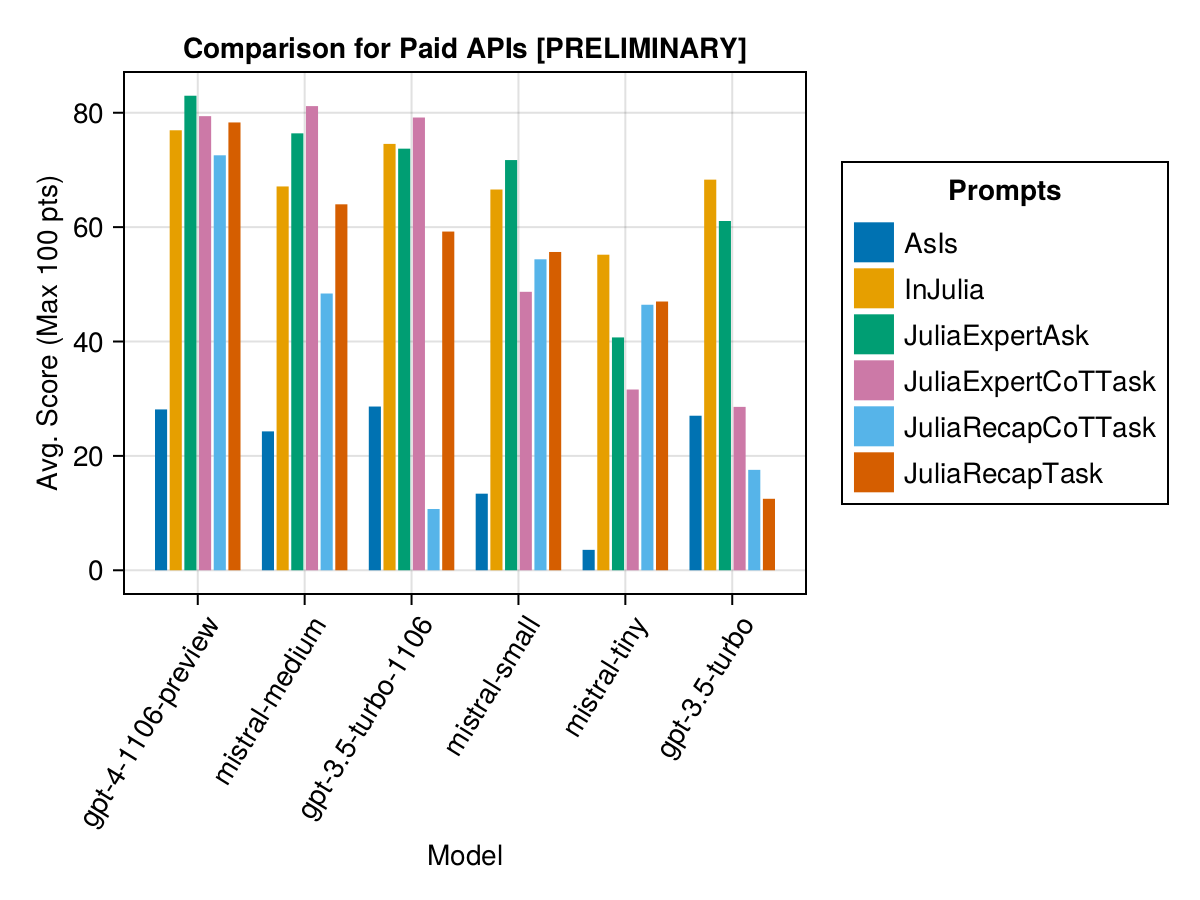
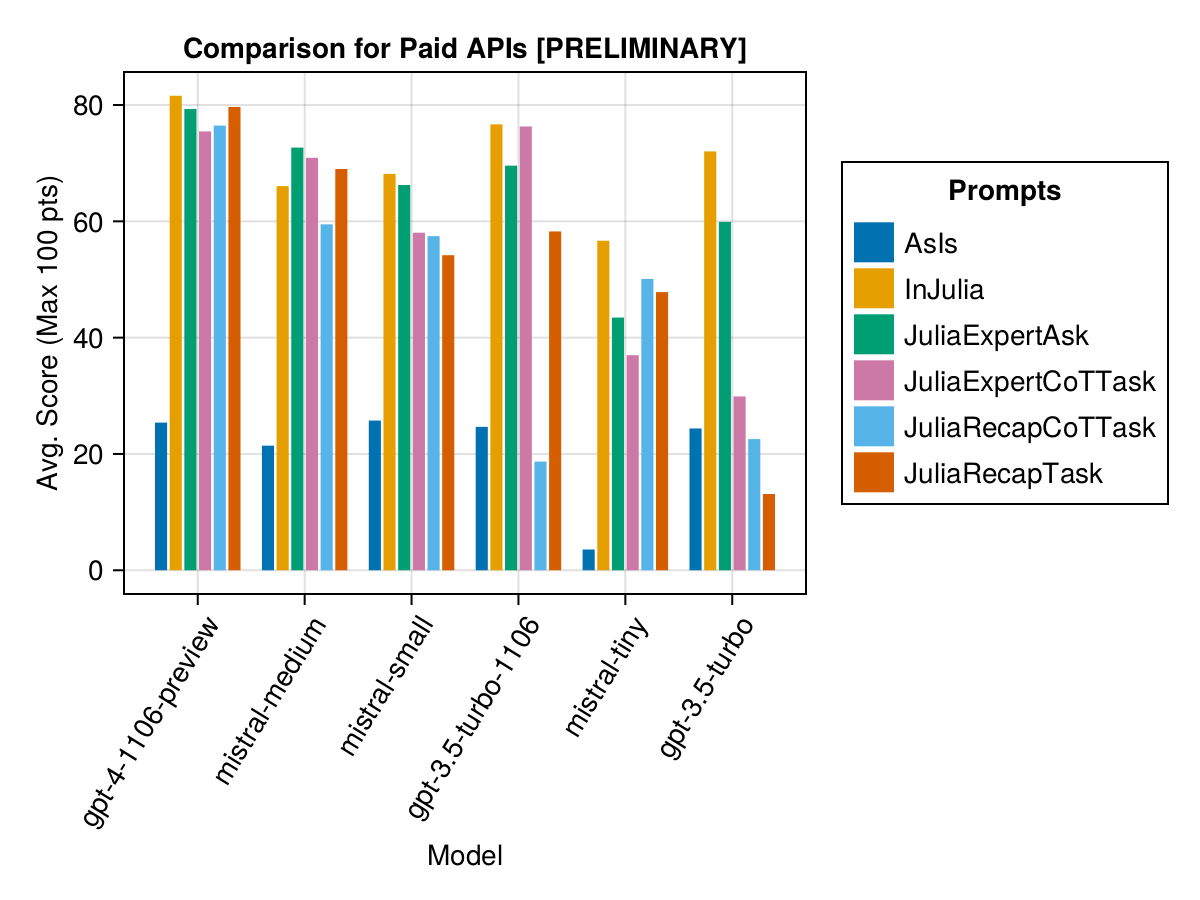
update docs

diff --git a/README.md b/README.md
@@ -1,5 +1,9 @@
 # Julia LLM Leaderboard
 
+[![Stable](https://img.shields.io/badge/docs-stable-blue.svg)](https://svilupp.github.io/JuliaLLMLeaderboard.jl/stable/)
+[![Dev](https://img.shields.io/badge/docs-dev-blue.svg)](https://svilupp.github.io/JuliaLLMLeaderboard.jl/dev/)
+[![SciML Code Style](https://img.shields.io/static/v1?label=code%20style&message=SciML&color=9558b2&labelColor=389826)](https://github.com/SciML/SciMLStyle)
+
 Comparison of Julia language generation capabilities of various Large Language Models
 
 > [!WARNING]  
@@ -56,12 +60,12 @@ Across the board, GPT-4 tends to be among the best-performing models. However, "
 
 | model              | AsIs | InJulia | JuliaExpertAsk | JuliaExpertCoTTask | JuliaRecapCoTTask | JuliaRecapTask | AverageScore |
 |--------------------|------|---------|----------------|--------------------|-------------------|----------------|--------------|
-| gpt-4-1106-preview | 20.6 |    85.0 |           76.5 |               74.7 |              80.1 |           79.6 |         69.4 |
-| gpt-3.5-turbo-1106 | 23.6 |    75.3 |           77.4 |               80.2 |              32.9 |           72.0 |         60.2 |
-|     mistral-medium | 18.9 |    63.0 |           73.3 |               66.6 |              62.9 |           67.9 |         58.8 |
-|      mistral-small | 36.3 |    71.2 |           66.2 |               64.8 |              62.6 |           46.2 |         57.9 |
-|       mistral-tiny |  1.8 |    55.0 |           43.2 |               41.1 |              57.0 |           46.1 |         40.7 |
-|      gpt-3.5-turbo | 20.0 |    67.7 |           53.9 |               22.9 |              27.7 |           14.0 |         34.4 |
+| gpt-4-1106-preview | 25.4 |    81.6 |           79.3 |               75.5 |              76.5 |           79.7 |         69.6 |
+|     mistral-medium | 21.4 |    66.1 |           72.7 |               70.9 |              59.5 |           69.0 |         59.9 |
+|      mistral-small | 25.7 |    68.2 |           66.2 |               58.0 |              57.5 |           54.2 |         55.0 |
+| gpt-3.5-turbo-1106 | 24.7 |    76.7 |           69.6 |               76.3 |              18.7 |           58.3 |         54.0 |
+|       mistral-tiny |  3.6 |    56.7 |           43.5 |               37.0 |              50.1 |           47.8 |         39.8 |
+|      gpt-3.5-turbo | 24.4 |    72.0 |           59.9 |               29.9 |              22.6 |           13.1 |         37.0 |
 
 Same information, but as a bar chart:
 
@@ -75,20 +79,27 @@ In addition, we can consider the performance (score) versus the cost (measured i
 
 Open-source models are generally not as good as the paid APIs, but they are getting close! Note that the "mistral-small" is already available to be run locally and there will be many future finetunes!
 
-The best-performing model is "orca2:13b", which is impressive given its size!
+The best-performing models are around 33/34Bn parameters - Phind CodeLlama and Deepseek Coder. Magicoder and OpenChat-1210 from the 7Bn parameter class are also quite good.
 
-| model                  | AsIs | InJulia | JuliaExpertAsk | JuliaExpertCoTTask | JuliaRecapCoTTask | JuliaRecapTask | AverageScore |
-|------------------------|------|---------|----------------|--------------------|-------------------|----------------|--------------|
-|              orca2:13b | 12.5 |    25.7 |           40.0 |               36.1 |              31.1 |           26.1 |         28.6 |
-| phind-codellama:34b-v2 | 12.5 |    34.6 |           35.4 |               33.9 |              23.6 |           30.2 |         28.4 |
-|            yi:34b-chat | 14.3 |    27.5 |           32.0 |               27.4 |              31.4 |           34.5 |         27.9 |
-|   codellama:13b-python | 10.7 |    23.2 |           23.9 |               42.7 |              37.3 |           28.0 |         27.7 |
-|              magicoder | 16.1 |    32.9 |           40.1 |               17.3 |              30.7 |           27.9 |         27.5 |
-|     starling-lm:latest | 14.3 |    28.2 |           42.9 |               20.4 |              20.2 |           36.4 |         27.1 |
-| codellama:13b-instruct |  7.1 |    26.3 |           40.4 |               28.9 |              36.1 |           17.9 |         26.1 |
-|  openhermes2.5-mistral | 10.7 |    27.9 |           36.4 |               29.8 |              22.1 |           27.1 |         25.7 |
-|        stablelm-zephyr |  7.1 |    20.0 |           34.1 |               32.9 |              23.2 |           36.8 |         25.7 |
-|                 llama2 |  8.9 |    23.9 |           32.9 |               37.2 |              25.0 |           16.1 |         24.0 |
+| model                              | AsIs | InJulia | JuliaExpertAsk | JuliaExpertCoTTask | JuliaRecapCoTTask | JuliaRecapTask | AverageScore |
+|------------------------------------|------|---------|----------------|--------------------|-------------------|----------------|--------------|
+|             phind-codellama:34b-v2 | 18.1 |    60.5 |           65.6 |               55.1 |              53.7 |           55.4 |         51.4 |
+| deepseek-coder:33b-instruct-q4_K_M | 25.4 |    59.4 |           41.4 |               49.8 |              62.1 |           61.0 |         49.8 |
+|                          magicoder | 10.1 |    56.5 |           46.2 |               43.4 |              55.3 |           48.1 |         43.3 |
+|       openchat:7b-v3.5-1210-q4_K_M |  5.0 |    56.4 |           46.0 |               46.9 |              49.0 |           51.4 |         42.4 |
+|             codellama:13b-instruct | 13.4 |    49.1 |           45.3 |               44.8 |              44.9 |           47.6 |         40.9 |
+|                 starling-lm:latest | 11.0 |    49.6 |           54.2 |               37.9 |              41.8 |           51.0 |         40.9 |
+|                        yi:34b-chat | 13.8 |    46.4 |           50.3 |               42.0 |              42.7 |           49.0 |         40.7 |
+|              openhermes2.5-mistral |  7.4 |    44.9 |           50.1 |               49.9 |              42.8 |           48.0 |         40.5 |
+|      mistral:7b-instruct-v0.2-q6_K |  4.5 |    43.3 |           38.1 |               53.4 |              46.4 |           53.1 |         39.8 |
+|     solar:10.7b-instruct-v1-q4_K_M |  7.2 |    42.8 |           37.9 |               20.0 |              30.4 |           35.6 |         29.0 |
+|         mistral:7b-instruct-q4_K_M |  6.7 |    34.7 |           34.0 |               26.6 |              35.2 |           34.3 |         28.6 |
+|                             llama2 | 11.9 |    24.0 |           32.5 |               33.2 |              28.6 |           24.5 |         25.8 |
+|                          orca2:13b |  4.2 |    26.0 |           19.2 |               29.8 |              24.1 |           24.2 |         21.2 |
+|                    stablelm-zephyr |  3.0 |    22.7 |           18.7 |               21.8 |              19.5 |           26.1 |         18.6 |
+|               codellama:13b-python | 10.0 |    11.9 |           15.1 |               14.0 |              11.5 |           14.7 |         12.9 |
+|              phi:2.7b-chat-v2-q6_K |  3.6 |     7.1 |            8.1 |                7.1 |               8.7 |            9.4 |          7.4 |
+
 
 
 Same information, but as a bar chart:
